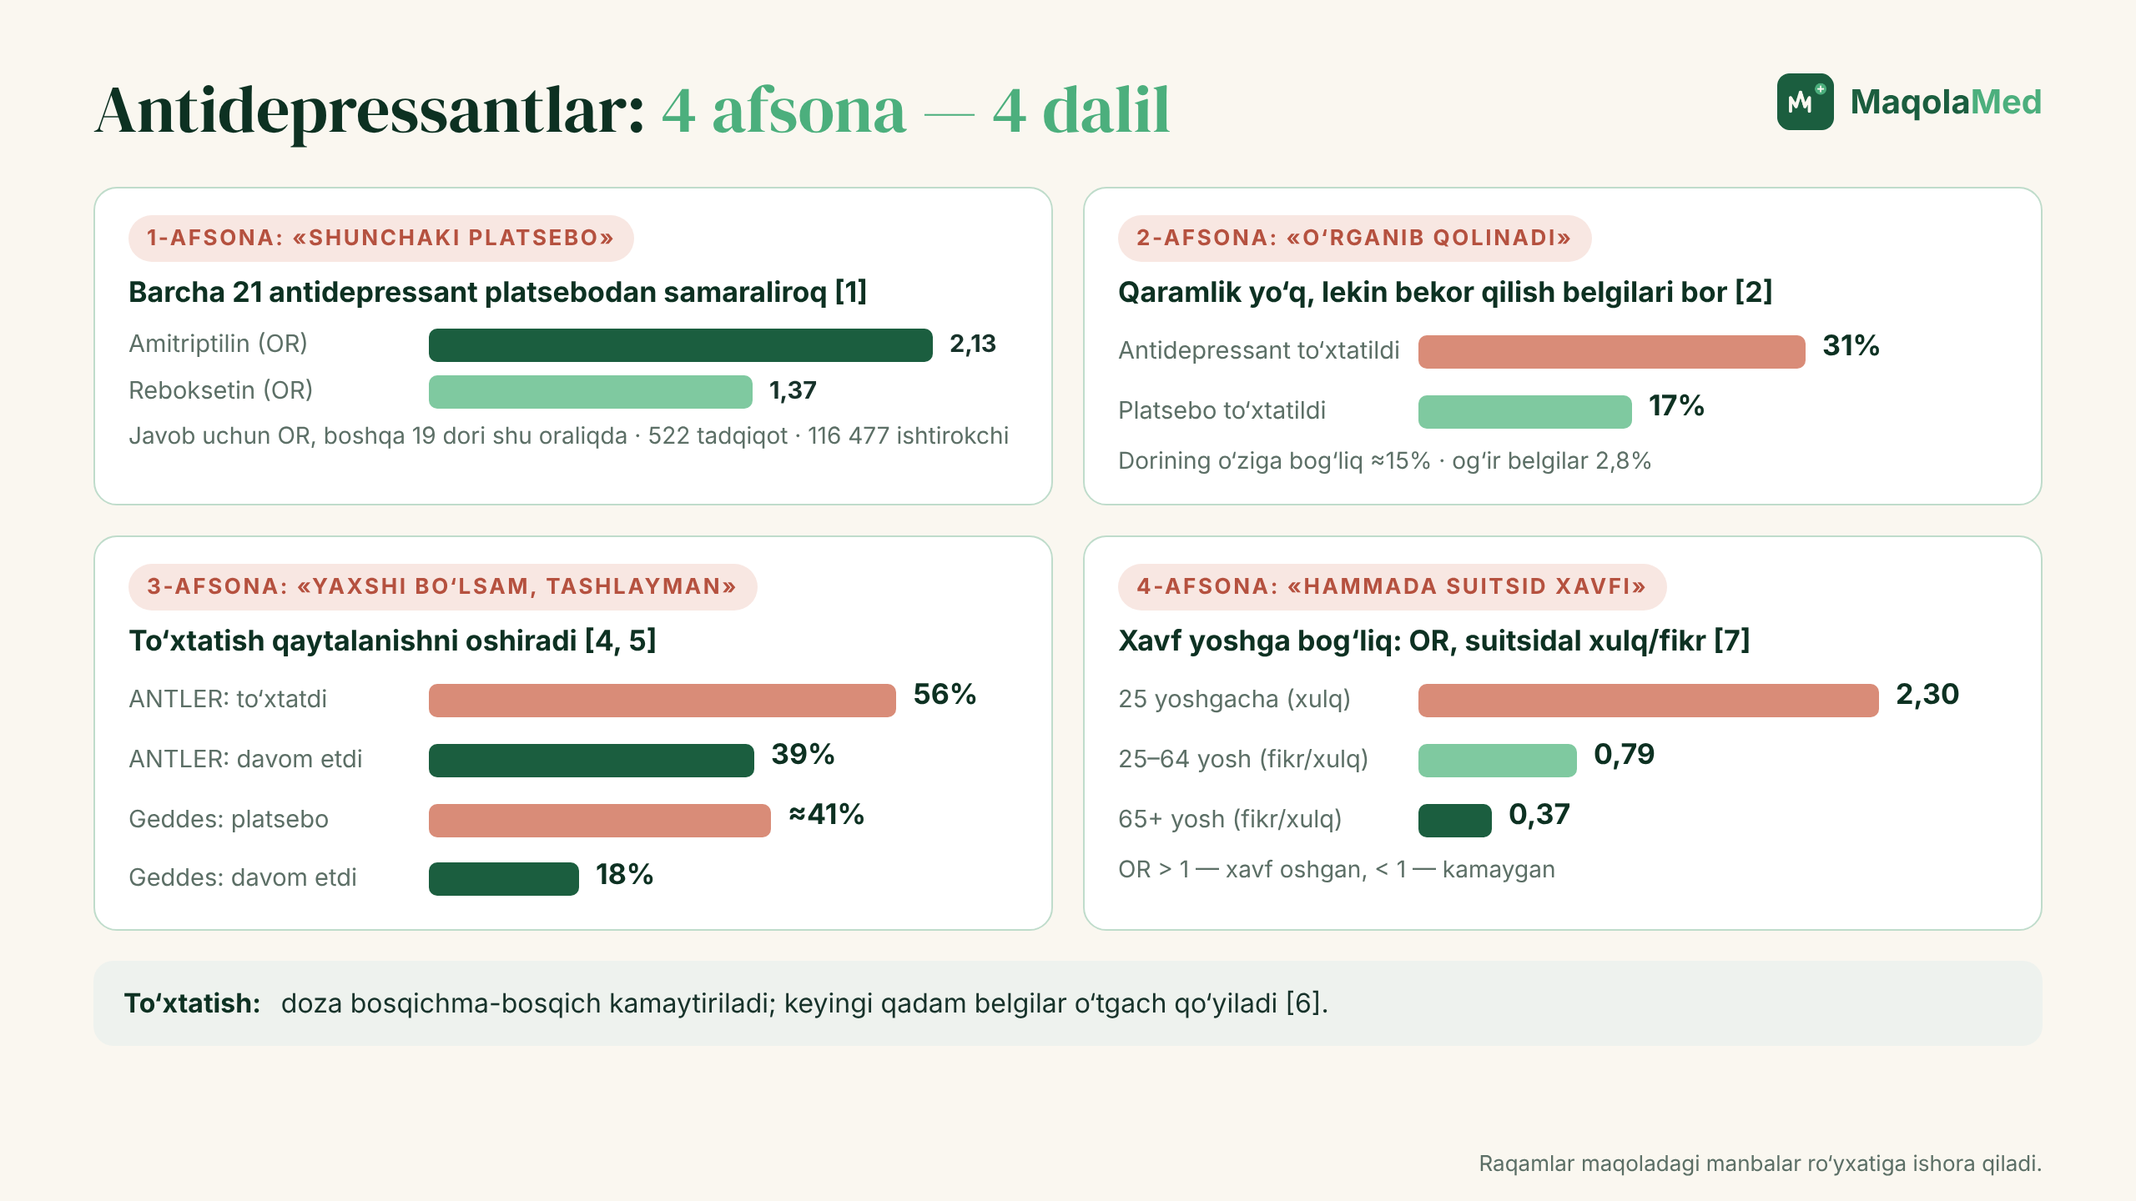
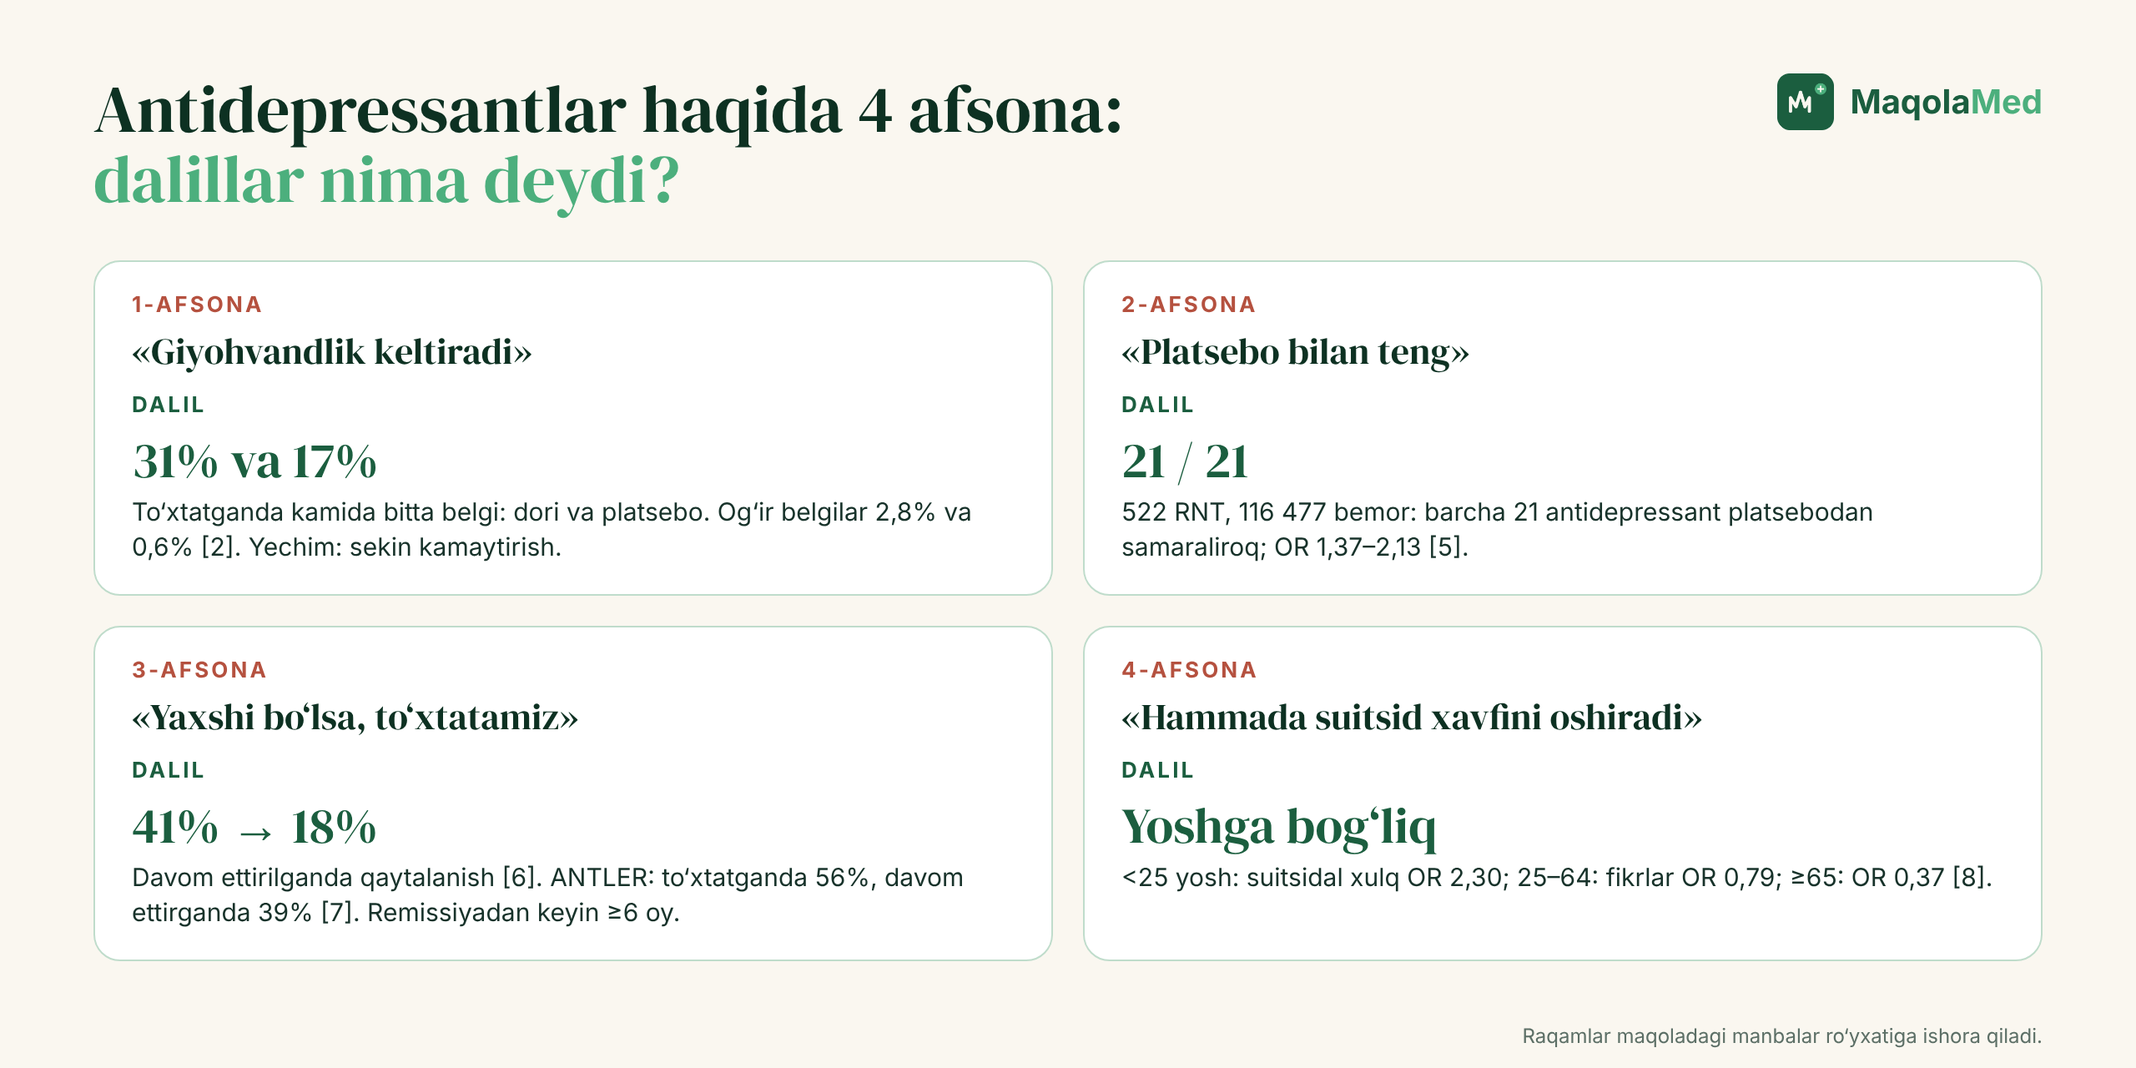
14-dekabr maqolasi qayta yozildi (v2, humanizer): antidepressantlar haqida 4 afsona — muqovalar, 1 rasm

diff --git a/_manba/2026-12-14/muqova-instagram-4x5.html b/_manba/2026-12-14/muqova-instagram-4x5.html
@@ -1,0 +1,87 @@
+<!doctype html>
+<html lang="uz">
+<head><base href="file:///home/claude/maqolamed-rasmlar/_shablon/">
+<meta charset="utf-8">
+<style>
+@font-face{font-family:"DM Serif Display";src:url("fonts/dm-serif-display-latin-400-normal.woff2") format("woff2");}
+@font-face{font-family:"DM Serif Display";src:url("fonts/dm-serif-display-latin-ext-400-normal.woff2") format("woff2");unicode-range:U+0100-024F,U+1E00-1EFF;}
+:root{
+  --emerald:#1B5E3F; --deep:#0D3122; --cream:#FAF7F0; --mint:#7FC9A0; --green:#4CAF7D;
+}
+*{margin:0;padding:0;box-sizing:border-box}
+html,body{width:1280px;height:720px;overflow:hidden;background:var(--deep)}
+.cover{position:relative;width:1280px;height:720px;overflow:hidden;font-family:"Inter",sans-serif;color:var(--cream);
+  background:
+    radial-gradient(900px 600px at 78% 40%, rgba(76,175,125,.22), transparent 60%),
+    radial-gradient(700px 500px at 0% 100%, rgba(13,49,34,.9), transparent 70%),
+    linear-gradient(135deg,#123F2C 0%, #1B5E3F 55%, #164D34 100%);}
+.grid{position:absolute;inset:0;background-image:
+    linear-gradient(rgba(250,247,240,.035) 1px,transparent 1px),
+    linear-gradient(90deg,rgba(250,247,240,.035) 1px,transparent 1px);
+  background-size:40px 40px;}
+.ekg{position:absolute;left:0;top:300px;width:1280px;height:200px;opacity:.16}
+.left{position:absolute;left:64px;top:52px;width:690px}
+.brand{display:flex;align-items:center;gap:28px}
+.brand img{height:62px;display:block}
+.tag{display:flex;align-items:center;gap:14px;font-size:13px;letter-spacing:.32em;color:rgba(250,247,240,.72);font-weight:500}
+.tag i{width:4px;height:4px;border-radius:50%;background:var(--mint);display:inline-block}
+.tag .line{width:90px;height:1px;background:rgba(250,247,240,.35)}
+.kicker{margin-top:54px;display:inline-flex;align-items:center;gap:10px;font-size:15px;font-weight:600;letter-spacing:.14em;text-transform:uppercase;color:var(--mint)}
+.kicker span{display:inline-block;width:28px;height:2px;background:var(--mint)}
+h1{margin-top:16px;font-family:"DM Serif Display",serif;font-weight:400;font-size:78px;line-height:.98;letter-spacing:-.01em;color:var(--cream)}
+h1 em{font-style:normal;color:var(--mint)}
+.sub{margin-top:22px;font-size:21px;color:rgba(250,247,240,.82);font-weight:400}
+.points{position:absolute;left:64px;bottom:50px;display:flex;gap:0}
+.pt{width:172px;padding-right:18px;display:flex;flex-direction:column;align-items:flex-start;gap:12px}
+.pt + .pt{padding-left:22px;border-left:1px solid rgba(250,247,240,.18)}
+.ic{width:52px;height:52px;border-radius:50%;border:1.6px solid rgba(250,247,240,.75);display:grid;place-items:center}
+.ic svg{width:26px;height:26px;stroke:var(--cream);fill:none;stroke-width:1.7;stroke-linecap:round;stroke-linejoin:round}
+.pt p{font-size:15px;line-height:1.3;color:rgba(250,247,240,.92);font-weight:500}
+.card{position:absolute;right:56px;top:96px;width:400px;border-radius:22px;padding:28px 30px 26px;
+  background:linear-gradient(160deg,rgba(13,49,34,.82),rgba(13,49,34,.62));
+  border:1px solid rgba(127,201,160,.35);box-shadow:0 30px 60px rgba(0,0,0,.35)}
+.card .ch{display:flex;justify-content:space-between;align-items:center}
+.card .lbl{font-size:12px;letter-spacing:.24em;font-weight:600;color:var(--mint)}
+.card .pill{font-size:12px;font-weight:600;padding:5px 10px;border-radius:999px;background:rgba(127,201,160,.16);color:var(--mint)}
+.card h3{margin-top:14px;font-size:22px;font-weight:600}
+.card h3 small{display:block;margin-top:4px;font-size:14px;font-weight:400;color:rgba(250,247,240,.65)}
+.rows{margin-top:18px;border-top:1px solid rgba(250,247,240,.14)}
+.row{display:flex;justify-content:space-between;padding:9px 0;border-bottom:1px solid rgba(250,247,240,.10);font-size:16px}
+.row span:first-child{color:rgba(250,247,240,.68)}
+.row span:last-child{font-weight:600;font-variant-numeric:tabular-nums}
+.row .ok{color:var(--mint)}
+.quote{margin-top:18px;font-family:"DM Serif Display",serif;font-size:21px;line-height:1.25;color:var(--cream)}
+.ask{margin-top:16px;display:flex;align-items:center;justify-content:space-between;padding:13px 16px;border-radius:12px;background:var(--green);color:#0D3122;font-weight:700;font-size:17px}
+.ask svg{width:22px;height:22px;stroke:#0D3122;fill:none;stroke-width:2.2;stroke-linecap:round;stroke-linejoin:round}
+
+html,body{width:1080px;height:1350px}
+.cover{width:1080px;height:1350px}
+.ekg{top:525px;width:1080px}
+.left{left:72px;top:64px;width:940px}
+.brand img{height:72px}
+h1{font-size:96px;margin-top:18px}
+.kicker{margin-top:56px;font-size:17px}
+.sub{font-size:24px}
+.card{left:72px;right:72px;top:auto;bottom:250px;width:auto;padding:30px 34px}
+.rows{display:grid;grid-template-columns:1fr 1fr;column-gap:40px}
+.quote{font-size:24px}
+.points{left:72px;right:72px;bottom:60px}
+.pt{width:auto;flex:1}
+.pt p{font-size:17px}
+
+
+
+h1{font-size:96px}
+</style>
+</head>
+<body><div class="cover"><div class="grid"></div>
+<svg class="ekg" viewBox="0 0 1280 200" preserveAspectRatio="none"><polyline fill="none" stroke="#7FC9A0" stroke-width="3" stroke-linejoin="round" stroke-linecap="round" points="0,120 640,120 670,120 690,98 710,120 750,120 770,40 795,175 820,120 880,120 905,102 930,120 1280,120"/></svg>
+<div class="left"><div class="brand"><img src="logo_dark_bg.png" alt="MaqolaMed"></div>
+<div class="tag" style="margin-top:22px"><span>ILM</span><i></i><span>AMALIYOT</span><i></i><span>ODAM UCHUN</span><span class="line"></span></div>
+<div class="kicker"><span></span>Afsona va dalil · Psixiatriya</div>
+<h1>Antidepressantlar<br>haqida<br><em>4 afsona</em></h1>
+<div class="sub">Qo‘rquv bemorni davolanishdan uzoqlashtiradi.</div></div>
+<div class="points"><div class="pt"><div class="ic"><svg viewBox="0 0 24 24"><rect x="3" y="8.5" width="18" height="7" rx="3.5" transform="rotate(-40 12 12)"/><path d="M9.3 9.3l5.4 5.4"/></svg></div><p>Ularga o‘rganib qolinadimi?</p></div><div class="pt"><div class="ic"><svg viewBox="0 0 24 24"><path d="M4 20V4"/><path d="M4 20h16"/><path d="M8 16l4-5 3 3 5-7"/></svg></div><p>Platsebodan farq qiladimi?</p></div><div class="pt"><div class="ic"><svg viewBox="0 0 24 24"><circle cx="12" cy="12" r="9"/><path d="M12 7v5l3 2"/></svg></div><p>Qachon to‘xtatish mumkin?</p></div><div class="pt"><div class="ic"><svg viewBox="0 0 24 24"><path d="M12 3l9.5 17h-19z"/><path d="M12 10v4"/><path d="M12 17v.5"/></svg></div><p>Suitsid xavfi kimda?</p></div></div>
+<div class="card"><div class="ch"><span class="lbl">AFSONA → DALIL</span><span class="pill">4 afsona</span></div>
+<h3>Nima rost, nima yolg‘on?<small>Cipriani 2018 · Henssler 2024 · NICE 2022</small></h3><div class="rows"><div class="row"><span>«Giyohvandlik keltiradi»</span><span class="ok">yo‘q</span></div><div class="row"><span>«Platsebo bilan teng»</span><span class="ok">21 dori ham ustun</span></div><div class="row"><span>«Yaxshi bo‘lsa to‘xtat»</span><span class="">41% → 18%</span></div><div class="row"><span>«Suitsid xavfi hammada»</span><span class="">yoshga bog‘liq</span></div></div><div class="quote">«Antidepressantga o‘rganib qolaman»</div><div class="ask">Siz nima deysiz?<svg viewBox="0 0 24 24"><path d="M5 12h14"/><path d="M13 6l6 6-6 6"/></svg></div></div>
+</div></body></html>

diff --git a/_manba/2026-12-14/muqova-16x9.html b/_manba/2026-12-14/muqova-16x9.html
@@ -1,0 +1,70 @@
+<!doctype html>
+<html lang="uz">
+<head><base href="file:///home/claude/maqolamed-rasmlar/_shablon/">
+<meta charset="utf-8">
+<style>
+@font-face{font-family:"DM Serif Display";src:url("fonts/dm-serif-display-latin-400-normal.woff2") format("woff2");}
+@font-face{font-family:"DM Serif Display";src:url("fonts/dm-serif-display-latin-ext-400-normal.woff2") format("woff2");unicode-range:U+0100-024F,U+1E00-1EFF;}
+:root{
+  --emerald:#1B5E3F; --deep:#0D3122; --cream:#FAF7F0; --mint:#7FC9A0; --green:#4CAF7D;
+}
+*{margin:0;padding:0;box-sizing:border-box}
+html,body{width:1280px;height:720px;overflow:hidden;background:var(--deep)}
+.cover{position:relative;width:1280px;height:720px;overflow:hidden;font-family:"Inter",sans-serif;color:var(--cream);
+  background:
+    radial-gradient(900px 600px at 78% 40%, rgba(76,175,125,.22), transparent 60%),
+    radial-gradient(700px 500px at 0% 100%, rgba(13,49,34,.9), transparent 70%),
+    linear-gradient(135deg,#123F2C 0%, #1B5E3F 55%, #164D34 100%);}
+.grid{position:absolute;inset:0;background-image:
+    linear-gradient(rgba(250,247,240,.035) 1px,transparent 1px),
+    linear-gradient(90deg,rgba(250,247,240,.035) 1px,transparent 1px);
+  background-size:40px 40px;}
+.ekg{position:absolute;left:0;top:300px;width:1280px;height:200px;opacity:.16}
+.left{position:absolute;left:64px;top:52px;width:690px}
+.brand{display:flex;align-items:center;gap:28px}
+.brand img{height:62px;display:block}
+.tag{display:flex;align-items:center;gap:14px;font-size:13px;letter-spacing:.32em;color:rgba(250,247,240,.72);font-weight:500}
+.tag i{width:4px;height:4px;border-radius:50%;background:var(--mint);display:inline-block}
+.tag .line{width:90px;height:1px;background:rgba(250,247,240,.35)}
+.kicker{margin-top:54px;display:inline-flex;align-items:center;gap:10px;font-size:15px;font-weight:600;letter-spacing:.14em;text-transform:uppercase;color:var(--mint)}
+.kicker span{display:inline-block;width:28px;height:2px;background:var(--mint)}
+h1{margin-top:16px;font-family:"DM Serif Display",serif;font-weight:400;font-size:78px;line-height:.98;letter-spacing:-.01em;color:var(--cream)}
+h1 em{font-style:normal;color:var(--mint)}
+.sub{margin-top:22px;font-size:21px;color:rgba(250,247,240,.82);font-weight:400}
+.points{position:absolute;left:64px;bottom:50px;display:flex;gap:0}
+.pt{width:172px;padding-right:18px;display:flex;flex-direction:column;align-items:flex-start;gap:12px}
+.pt + .pt{padding-left:22px;border-left:1px solid rgba(250,247,240,.18)}
+.ic{width:52px;height:52px;border-radius:50%;border:1.6px solid rgba(250,247,240,.75);display:grid;place-items:center}
+.ic svg{width:26px;height:26px;stroke:var(--cream);fill:none;stroke-width:1.7;stroke-linecap:round;stroke-linejoin:round}
+.pt p{font-size:15px;line-height:1.3;color:rgba(250,247,240,.92);font-weight:500}
+.card{position:absolute;right:56px;top:96px;width:400px;border-radius:22px;padding:28px 30px 26px;
+  background:linear-gradient(160deg,rgba(13,49,34,.82),rgba(13,49,34,.62));
+  border:1px solid rgba(127,201,160,.35);box-shadow:0 30px 60px rgba(0,0,0,.35)}
+.card .ch{display:flex;justify-content:space-between;align-items:center}
+.card .lbl{font-size:12px;letter-spacing:.24em;font-weight:600;color:var(--mint)}
+.card .pill{font-size:12px;font-weight:600;padding:5px 10px;border-radius:999px;background:rgba(127,201,160,.16);color:var(--mint)}
+.card h3{margin-top:14px;font-size:22px;font-weight:600}
+.card h3 small{display:block;margin-top:4px;font-size:14px;font-weight:400;color:rgba(250,247,240,.65)}
+.rows{margin-top:18px;border-top:1px solid rgba(250,247,240,.14)}
+.row{display:flex;justify-content:space-between;padding:9px 0;border-bottom:1px solid rgba(250,247,240,.10);font-size:16px}
+.row span:first-child{color:rgba(250,247,240,.68)}
+.row span:last-child{font-weight:600;font-variant-numeric:tabular-nums}
+.row .ok{color:var(--mint)}
+.quote{margin-top:18px;font-family:"DM Serif Display",serif;font-size:21px;line-height:1.25;color:var(--cream)}
+.ask{margin-top:16px;display:flex;align-items:center;justify-content:space-between;padding:13px 16px;border-radius:12px;background:var(--green);color:#0D3122;font-weight:700;font-size:17px}
+.ask svg{width:22px;height:22px;stroke:#0D3122;fill:none;stroke-width:2.2;stroke-linecap:round;stroke-linejoin:round}
+
+h1{font-size:72px}
+</style>
+</head>
+<body><div class="cover"><div class="grid"></div>
+<svg class="ekg" viewBox="0 0 1280 200" preserveAspectRatio="none"><polyline fill="none" stroke="#7FC9A0" stroke-width="3" stroke-linejoin="round" stroke-linecap="round" points="0,120 640,120 670,120 690,98 710,120 750,120 770,40 795,175 820,120 880,120 905,102 930,120 1280,120"/></svg>
+<div class="left"><div class="brand"><img src="logo_dark_bg.png" alt="MaqolaMed"></div>
+<div class="tag" style="margin-top:22px"><span>ILM</span><i></i><span>AMALIYOT</span><i></i><span>ODAM UCHUN</span><span class="line"></span></div>
+<div class="kicker"><span></span>Afsona va dalil · Psixiatriya</div>
+<h1>Antidepressantlar<br>haqida<br><em>4 afsona</em></h1>
+<div class="sub">Qo‘rquv bemorni davolanishdan uzoqlashtiradi.</div></div>
+<div class="points"><div class="pt"><div class="ic"><svg viewBox="0 0 24 24"><rect x="3" y="8.5" width="18" height="7" rx="3.5" transform="rotate(-40 12 12)"/><path d="M9.3 9.3l5.4 5.4"/></svg></div><p>Ularga o‘rganib qolinadimi?</p></div><div class="pt"><div class="ic"><svg viewBox="0 0 24 24"><path d="M4 20V4"/><path d="M4 20h16"/><path d="M8 16l4-5 3 3 5-7"/></svg></div><p>Platsebodan farq qiladimi?</p></div><div class="pt"><div class="ic"><svg viewBox="0 0 24 24"><circle cx="12" cy="12" r="9"/><path d="M12 7v5l3 2"/></svg></div><p>Qachon to‘xtatish mumkin?</p></div><div class="pt"><div class="ic"><svg viewBox="0 0 24 24"><path d="M12 3l9.5 17h-19z"/><path d="M12 10v4"/><path d="M12 17v.5"/></svg></div><p>Suitsid xavfi kimda?</p></div></div>
+<div class="card"><div class="ch"><span class="lbl">AFSONA → DALIL</span><span class="pill">4 afsona</span></div>
+<h3>Nima rost, nima yolg‘on?<small>Cipriani 2018 · Henssler 2024 · NICE 2022</small></h3><div class="rows"><div class="row"><span>«Giyohvandlik keltiradi»</span><span class="ok">yo‘q</span></div><div class="row"><span>«Platsebo bilan teng»</span><span class="ok">21 dori ham ustun</span></div><div class="row"><span>«Yaxshi bo‘lsa to‘xtat»</span><span class="">41% → 18%</span></div><div class="row"><span>«Suitsid xavfi hammada»</span><span class="">yoshga bog‘liq</span></div></div><div class="quote">«Antidepressantga o‘rganib qolaman»</div><div class="ask">Siz nima deysiz?<svg viewBox="0 0 24 24"><path d="M5 12h14"/><path d="M13 6l6 6-6 6"/></svg></div></div>
+</div></body></html>

diff --git a/_manba/2026-12-14/1-rasm.html b/_manba/2026-12-14/1-rasm.html
@@ -1,0 +1,45 @@
+<!doctype html><html lang="uz"><head><meta charset="utf-8"><base href="file:///home/claude/maqolamed-rasmlar/_shablon/">
+<style>
+@font-face{font-family:"DM Serif Display";src:url("fonts/dm-serif-display-latin-400-normal.woff2") format("woff2");}
+@font-face{font-family:"DM Serif Display";src:url("fonts/dm-serif-display-latin-ext-400-normal.woff2") format("woff2");unicode-range:U+0100-024F,U+1E00-1EFF;}
+:root{--emerald:#1B5E3F;--deep:#0D3122;--cream:#FAF7F0;--mint:#7FC9A0;--green:#4CAF7D;--ink:#17322A;--muted:#5C6F66;--amber:#C98A2E;--amberbg:#FBF1E1;--red:#B5513F;--redbg:#F8E7E2;--tint:#E6F3EC}
+*{margin:0;padding:0;box-sizing:border-box}
+html,body{width:1280px;height:var(--H,900px);background:var(--cream);overflow:hidden}
+.fig{position:relative;width:1280px;height:var(--H,900px);padding:44px 56px;font-family:"Inter",sans-serif;color:var(--ink)}
+.top{display:flex;justify-content:space-between;align-items:flex-start;margin-bottom:28px}
+h1{font-family:"DM Serif Display",serif;font-weight:400;font-size:40px;line-height:1.05;color:var(--deep)}
+h1 em{font-style:normal;color:var(--green)}
+.brand{display:flex;align-items:center;gap:10px;font-weight:700;font-size:20px;color:var(--emerald)}
+.brand img{height:34px}.brand b{color:var(--green);font-weight:700}
+table{width:100%;border-collapse:separate;border-spacing:0 8px;font-size:16px;line-height:1.35}
+th{text-align:left;font-size:12px;letter-spacing:.14em;text-transform:uppercase;color:var(--muted);padding:0 18px 2px;font-weight:700}
+td{background:#fff;padding:13px 18px;vertical-align:middle}
+td:first-child{border-radius:12px 0 0 12px;font-weight:700;color:var(--deep)}
+td:last-child{border-radius:0 12px 12px 0}
+td.new{background:var(--tint)} td.same{background:#F1EEE6;color:var(--muted)}
+td.warn{background:var(--redbg)}
+.badge{display:inline-block;font-size:11px;font-weight:700;letter-spacing:.08em;padding:4px 9px;border-radius:999px;margin-right:8px;vertical-align:1px}
+.b-new{background:var(--emerald);color:var(--cream)} .b-same{background:#E2DED3;color:var(--muted)} .b-red{background:var(--red);color:#fff} .b-amb{background:var(--amber);color:#fff}
+.muted{color:var(--muted)}
+.node{border-radius:14px;padding:14px 18px;font-size:16px;line-height:1.38}
+.node b{display:block;font-size:17px;margin-bottom:3px}
+.n-dark{background:var(--emerald);color:var(--cream)} .n-deep{background:var(--deep);color:var(--cream)}
+.n-white{background:#fff;border:1.5px solid #BFDCCB} .n-amb{background:#fff;border:1.5px solid #EBD3A9} .n-red{background:var(--redbg);border:1.5px solid #E8C3BA}
+.tagc{display:inline-block;font-size:12px;font-weight:700;letter-spacing:.12em;text-transform:uppercase;padding:6px 12px;border-radius:999px}
+.t-g{background:#DDEFE5;color:var(--emerald)} .t-a{background:var(--amberbg);color:#8A5A14} .t-r{background:var(--redbg);color:var(--red)}
+.note{position:absolute;left:56px;right:56px;bottom:40px;padding:14px 18px;border-radius:12px;background:#EEF2EE;font-size:15px;line-height:1.4}
+.note b{color:var(--deep)}
+.src{position:absolute;right:56px;bottom:12px;font-size:12px;color:var(--muted)}
+.arrow{stroke:var(--emerald);stroke-width:2.2;fill:none}
+</style></head><body><style>:root{--H:640px}
+.g{display:grid;grid-template-columns:1fr 1fr;gap:18px}
+.card2{background:#fff;border-radius:16px;border:1.5px solid #BFDCCB;padding:18px 22px}
+.my{font-size:13px;font-weight:700;letter-spacing:.12em;text-transform:uppercase;color:var(--red);margin-bottom:4px}
+.myt{font-family:"DM Serif Display",serif;font-size:22px;color:var(--deep);margin-bottom:10px}
+.fa{font-size:13px;font-weight:700;letter-spacing:.12em;text-transform:uppercase;color:var(--emerald);margin-bottom:4px}
+.num{font-family:"DM Serif Display",serif;font-size:30px;color:var(--emerald)}
+.card2 p{font-size:15px;line-height:1.4}
+</style>
+<div class="fig"><div class="top"><h1>Antidepressantlar haqida 4 afsona:<br><em>dalillar nima deydi?</em></h1><div class="brand"><img src="icon.png" alt=""><span>Maqola<b>Med</b></span></div></div>
+<div class="g"><div class="card2"><div class="my">1-afsona</div><div class="myt">«Giyohvandlik keltiradi»</div><div class="fa">Dalil</div><div class="num">31% va 17%</div><p>To‘xtatganda kamida bitta belgi: dori va platsebo. Og‘ir belgilar 2,8% va 0,6% [2]. Yechim: sekin kamaytirish.</p></div><div class="card2"><div class="my">2-afsona</div><div class="myt">«Platsebo bilan teng»</div><div class="fa">Dalil</div><div class="num">21 / 21</div><p>522 RNT, 116 477 bemor: barcha 21 antidepressant platsebodan samaraliroq; OR 1,37–2,13 [5].</p></div><div class="card2"><div class="my">3-afsona</div><div class="myt">«Yaxshi bo‘lsa, to‘xtatamiz»</div><div class="fa">Dalil</div><div class="num">41% → 18%</div><p>Davom ettirilganda qaytalanish [6]. ANTLER: to‘xtatganda 56%, davom ettirganda 39% [7]. Remissiyadan keyin ≥6 oy.</p></div><div class="card2"><div class="my">4-afsona</div><div class="myt">«Hammada suitsid xavfini oshiradi»</div><div class="fa">Dalil</div><div class="num">Yoshga bog‘liq</div><p>&lt;25 yosh: suitsidal xulq OR 2,30; 25–64: fikrlar OR 0,79; ≥65: OR 0,37 [8].</p></div></div>
+<div class="src">Raqamlar maqoladagi manbalar ro‘yxatiga ishora qiladi.</div></div></body></html>
